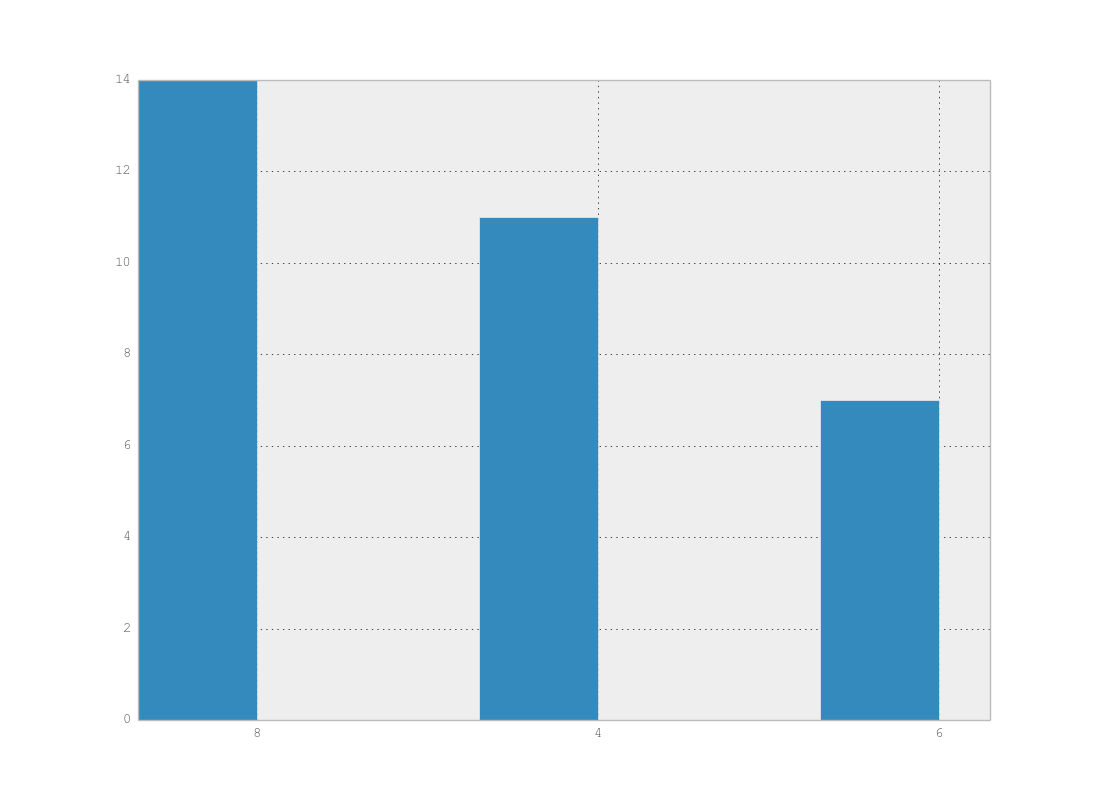
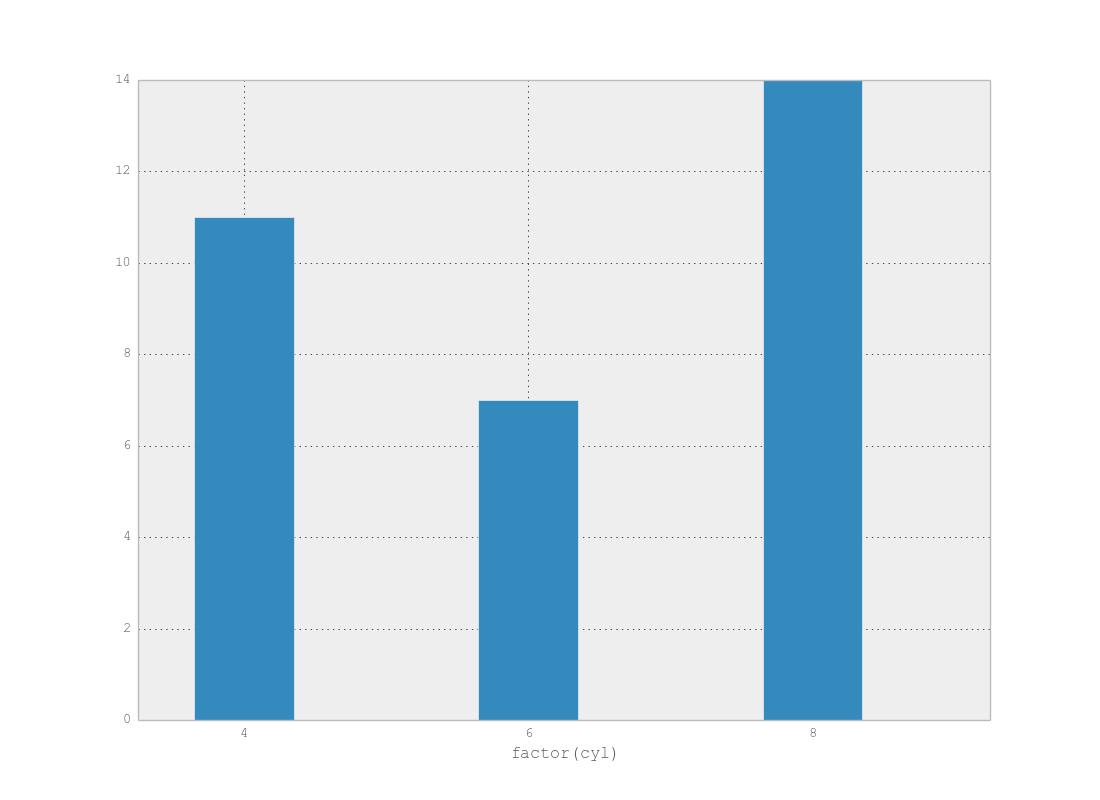
updated image of geom_bar

diff --git a/example.py b/example.py
@@ -94,6 +94,6 @@ p = ggplot(aes(x='carat', y='price'), data=diamonds)
 p = ggplot(aes(x='factor(cyl)'), data=mtcars)
 print p + geom_bar()
 plt.show(block=True)
-
+ggsave(p + geom_bar(), "public/img/mtcars_geom_bar_cyl.png")
 
 
